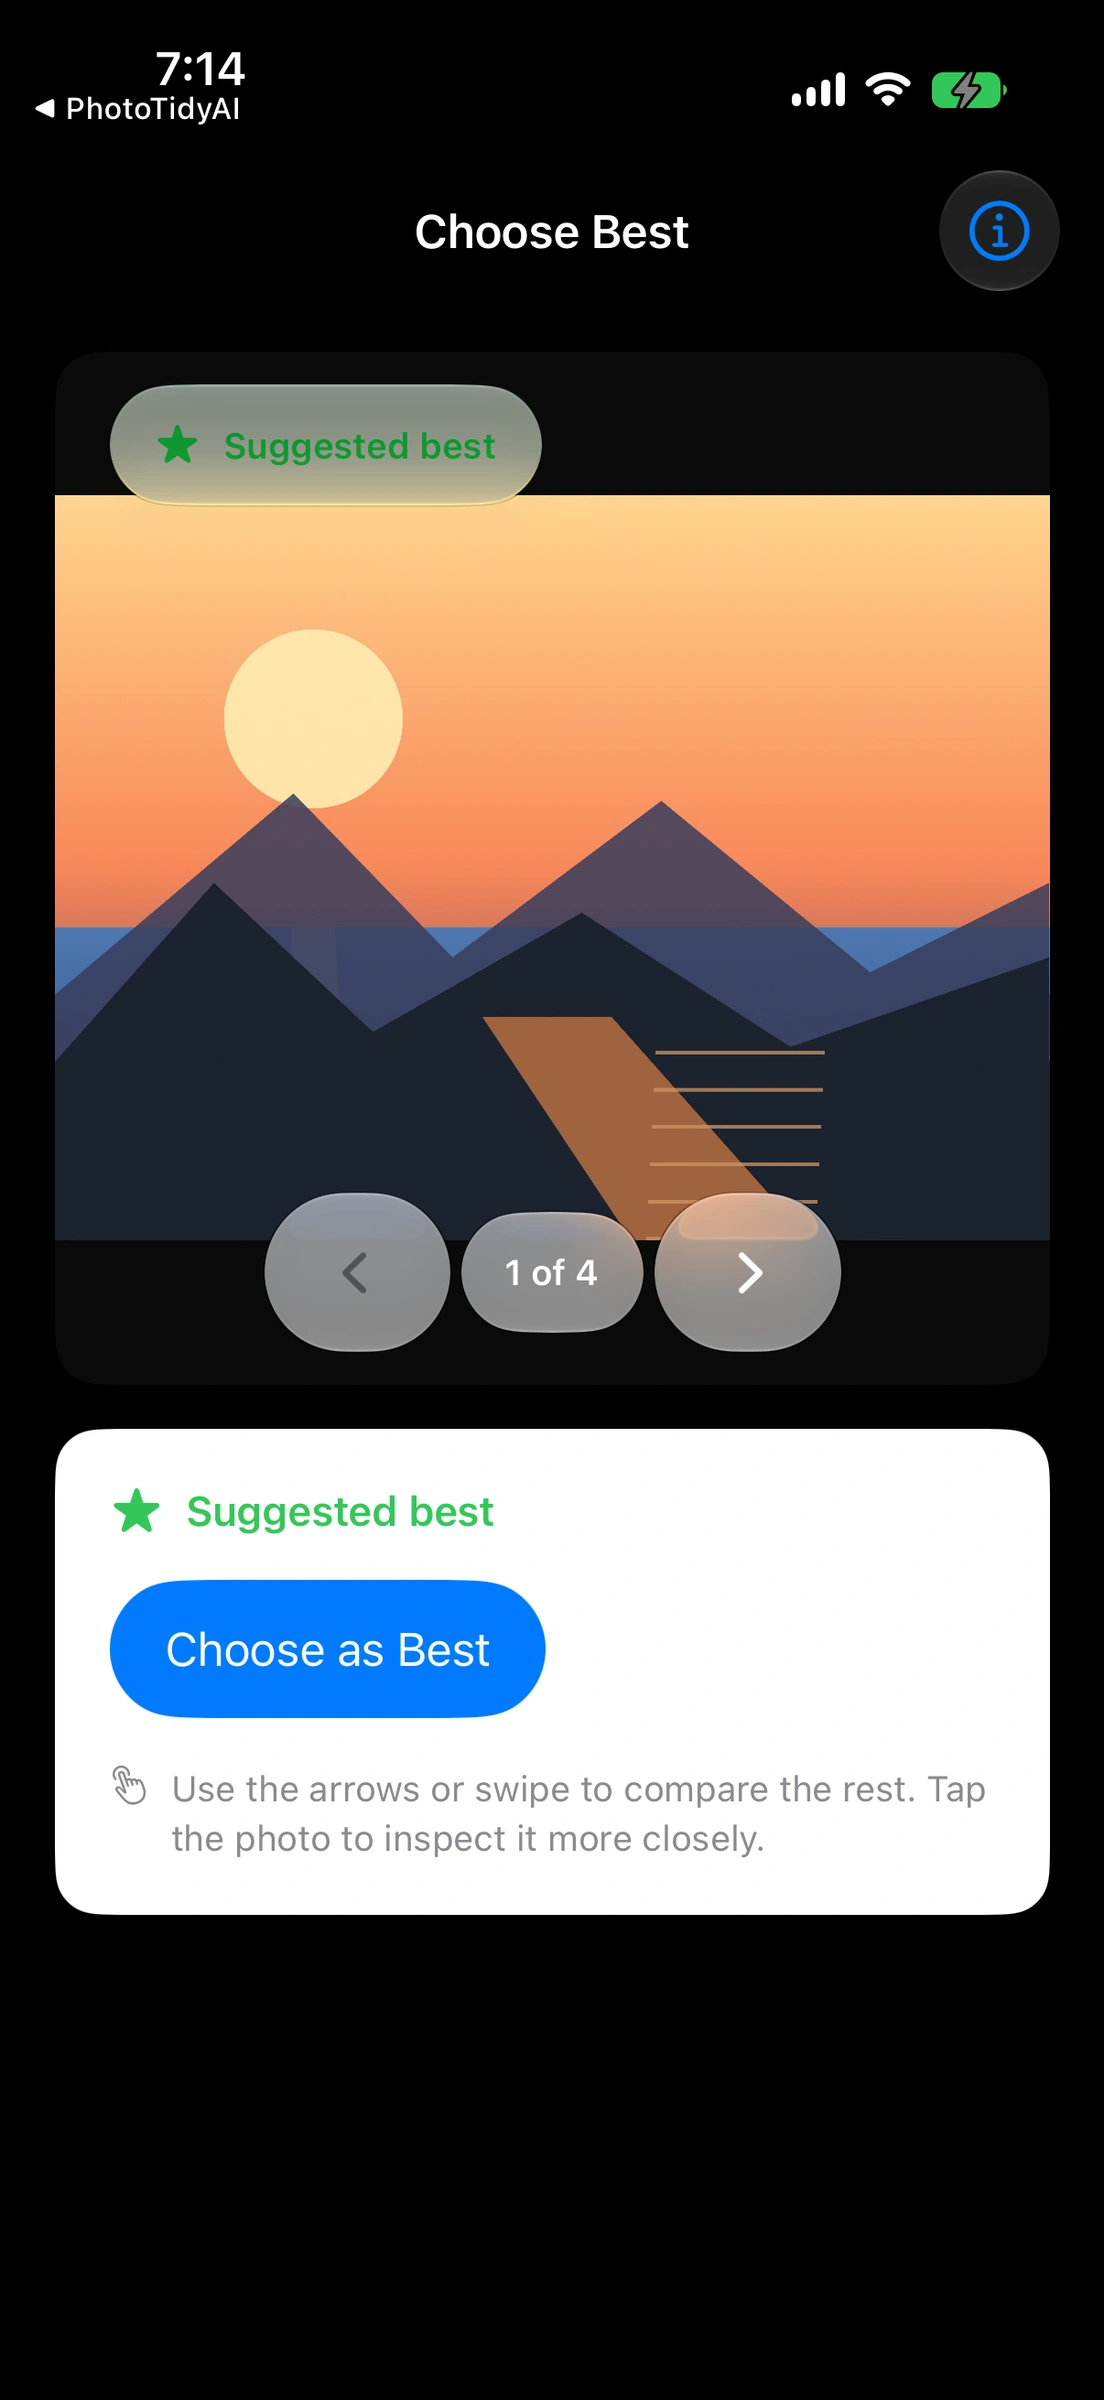
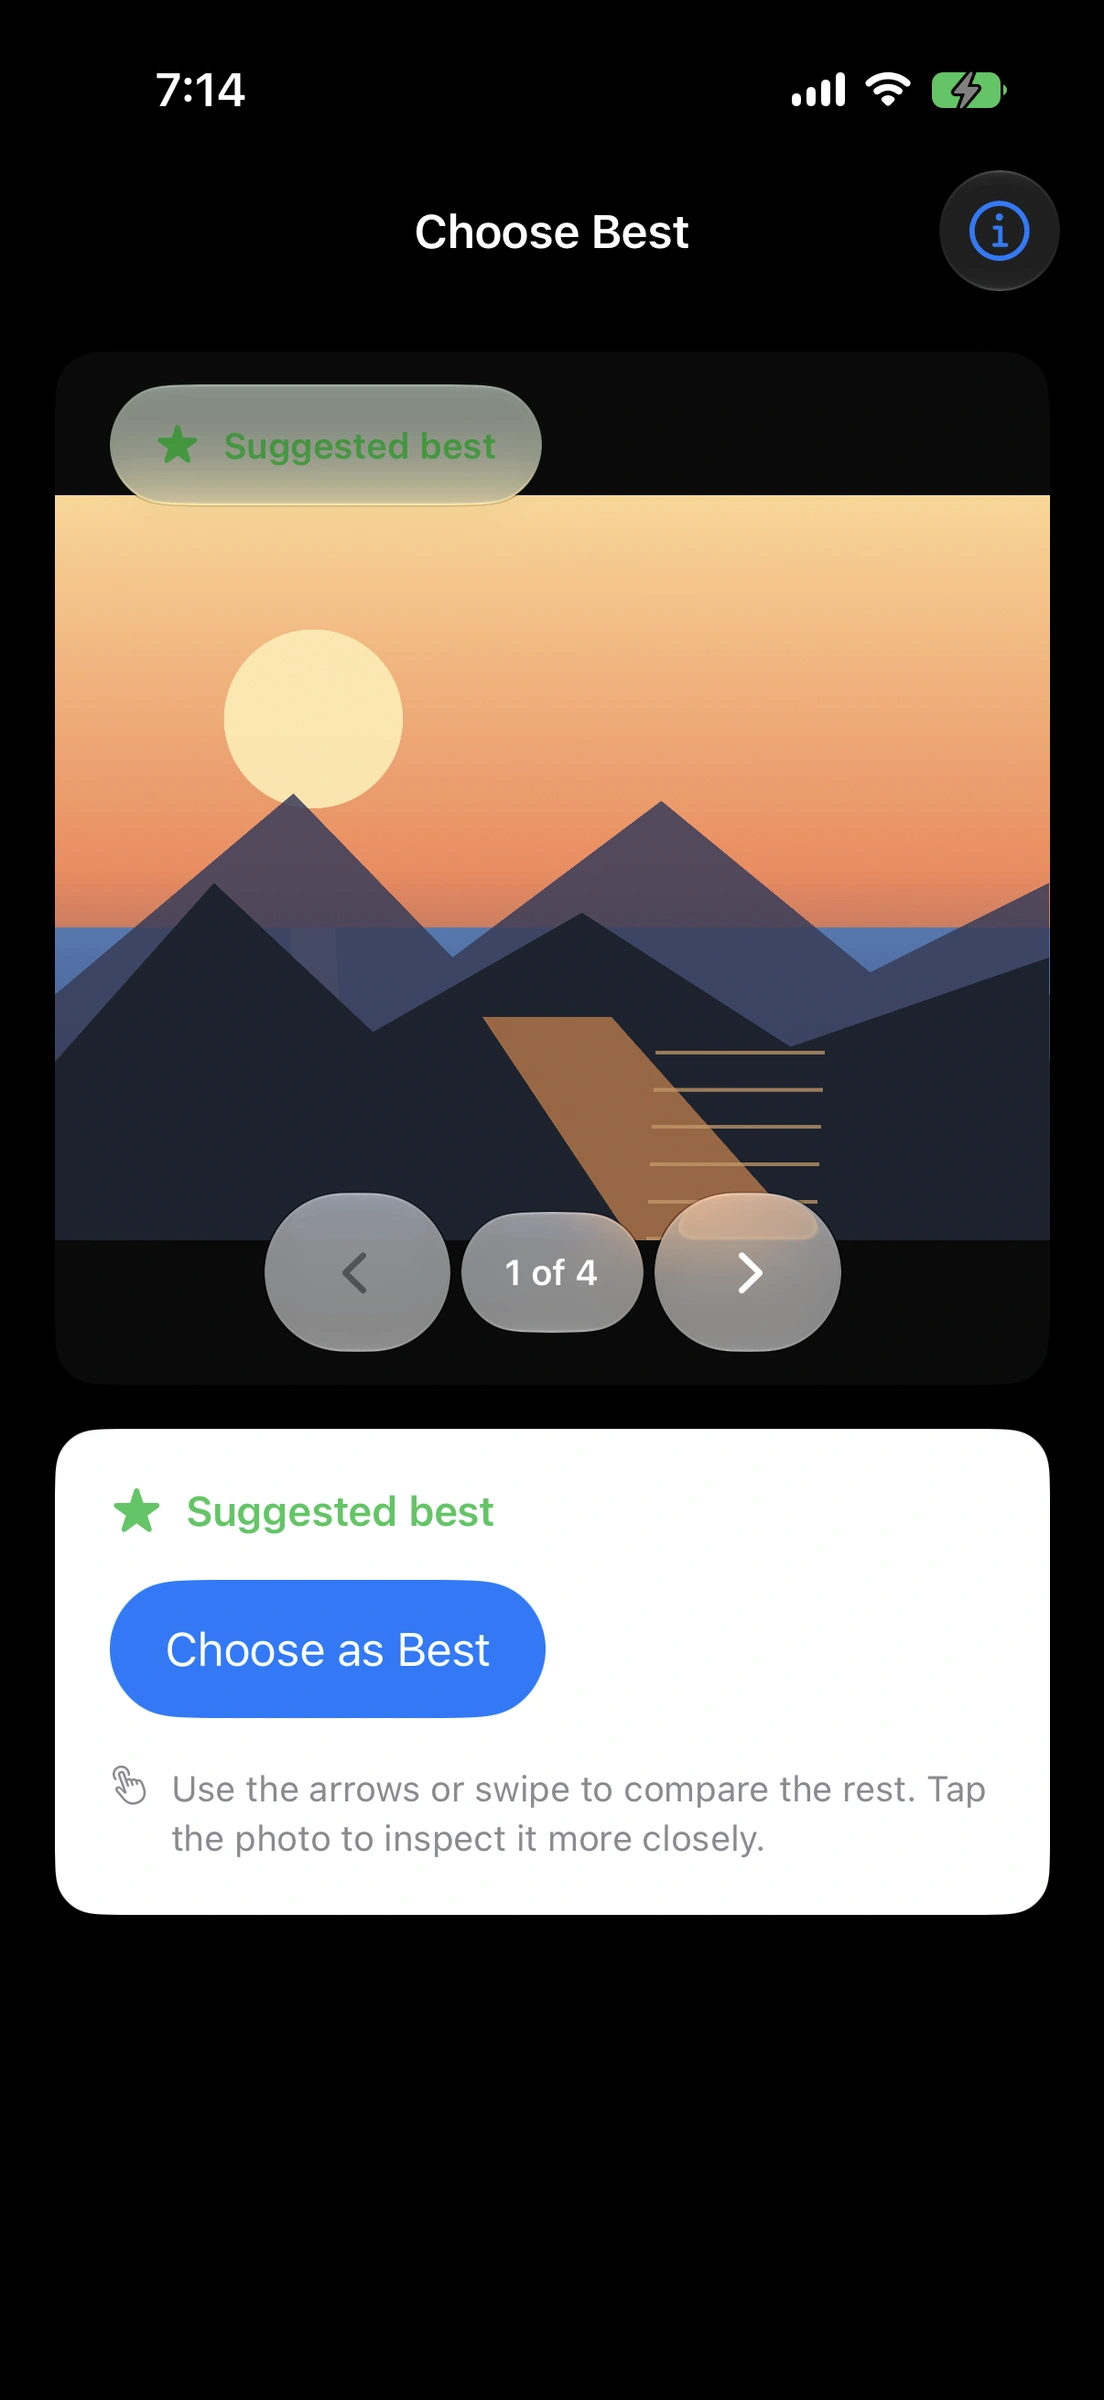
Replace hero app screenshot

diff --git a/it/index.html b/it/index.html
@@ -76,7 +76,7 @@
 <div class="orbit orbit-two">
 </div>
 <div class="phone-shell">
-<img class="app-screenshot" src="../assets/screenshots/compare.jpg" srcset="../assets/screenshots/compare-736.webp 736w, ../assets/screenshots/compare-1104.webp 1104w" sizes="(max-width: 370px) 75vw, (max-width: 980px) 278px, (max-width: 1408px) 23vw, 324px" alt="Schermata Confronta di PhotoTidy con la foto migliore suggerita" width="1104" height="2400"/>
+<img class="app-screenshot" src="../assets/screenshots/compare-hero.jpg" srcset="../assets/screenshots/compare-736.webp 736w, ../assets/screenshots/compare-1104.webp 1104w" sizes="(max-width: 370px) 75vw, (max-width: 980px) 278px, (max-width: 1408px) 23vw, 324px" alt="Schermata Confronta di PhotoTidy con la foto migliore suggerita" width="1104" height="2400"/>
 </div>
 <div class="floating-card floating-private">
 <span class="mini-icon">

diff --git a/index.html b/index.html
@@ -76,7 +76,7 @@
 <div class="orbit orbit-two">
 </div>
 <div class="phone-shell">
-<img class="app-screenshot" src="assets/screenshots/compare.jpg" srcset="assets/screenshots/compare-736.webp 736w, assets/screenshots/compare-1104.webp 1104w" sizes="(max-width: 370px) 75vw, (max-width: 980px) 278px, (max-width: 1408px) 23vw, 324px" alt="PhotoTidy Compare screen showing a suggested best photo" width="1104" height="2400"/>
+<img class="app-screenshot" src="assets/screenshots/compare-hero.jpg" srcset="assets/screenshots/compare-736.webp 736w, assets/screenshots/compare-1104.webp 1104w" sizes="(max-width: 370px) 75vw, (max-width: 980px) 278px, (max-width: 1408px) 23vw, 324px" alt="PhotoTidy Compare screen showing a suggested best photo" width="1104" height="2400"/>
 </div>
 <div class="floating-card floating-private">
 <span class="mini-icon">
